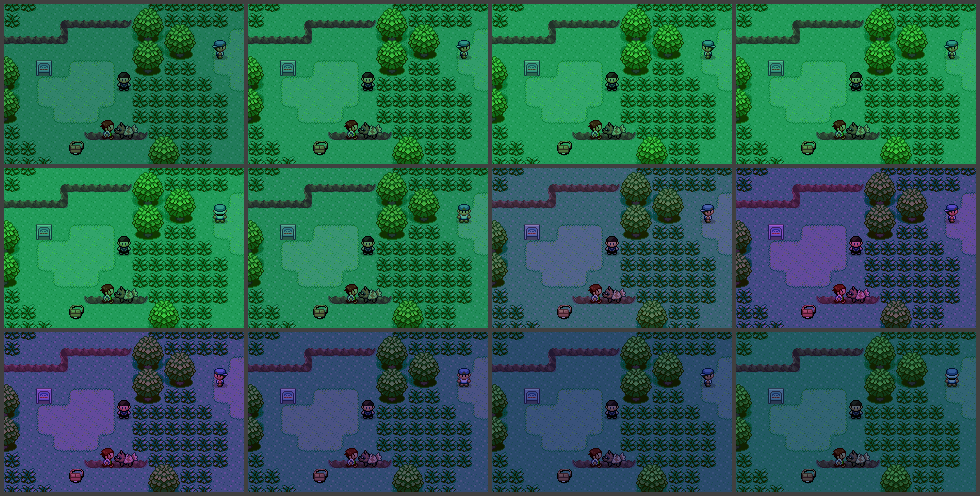
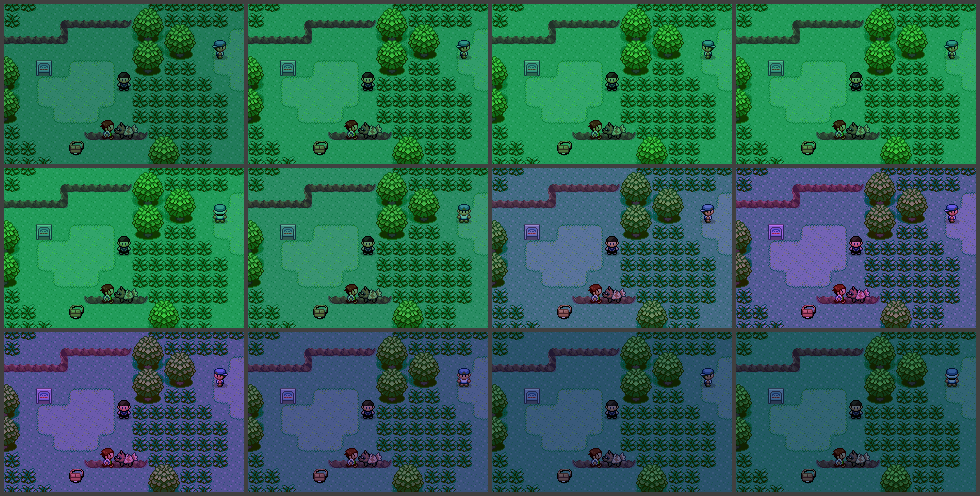
Make the aurora's violet a bit brighter
Violet tint raised from (0.68, 0.38, 0.86) to (0.80, 0.48, 0.98), same hue.
Placeholder colors still; shot of one full loop in
design/art/aurora_map_pulse.png.

Claude-Session: https://claude.ai/code/session_01KEfQ3687BBFMv8bczkVuAH

diff --git a/src/eien_aurora.c b/src/eien_aurora.c
@@ -37,7 +37,7 @@ static const struct AuroraTint sAuroraTints[] =
 {
     {{.coeff = 10, .blendColor = TINT(0.40, 0.46, 0.66), .isTint = TRUE}, 0},  // Cold night
     {{.coeff = 10, .blendColor = TINT(0.34, 0.80, 0.56), .isTint = TRUE}, 96}, // Green
-    {{.coeff = 10, .blendColor = TINT(0.68, 0.38, 0.86), .isTint = TRUE}, 0},  // Violet
+    {{.coeff = 10, .blendColor = TINT(0.80, 0.48, 0.98), .isTint = TRUE}, 0},  // Violet
 };
 
 static EWRAM_DATA u16 sPhase = 0; // Step within the cycle
